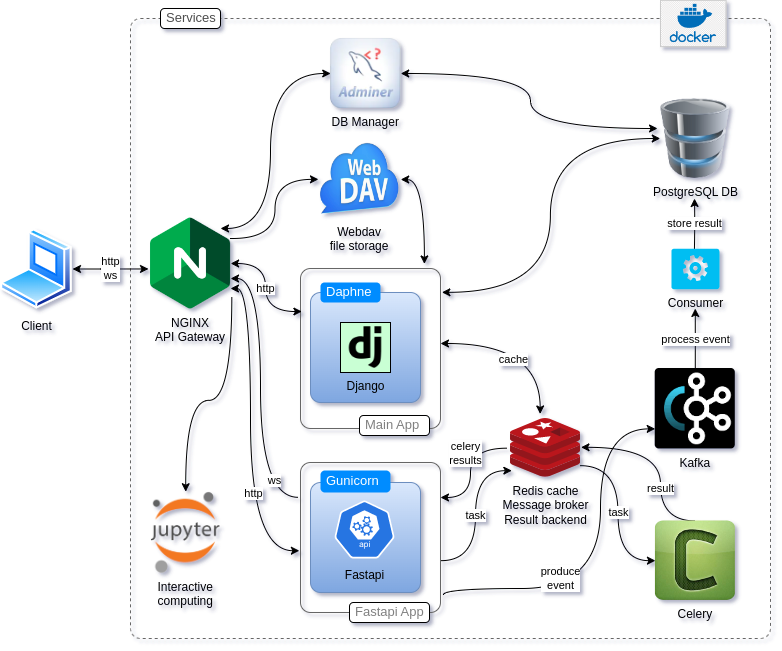
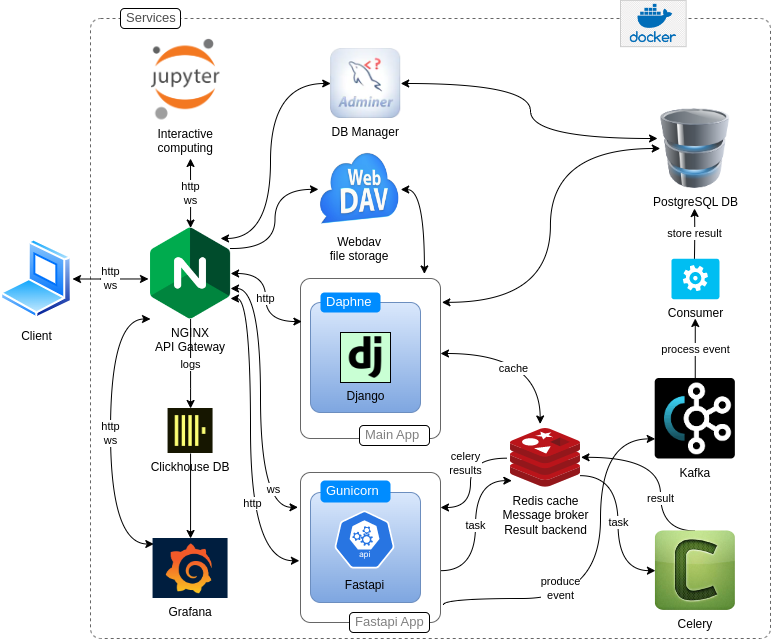
updated architecture, features and about pages

diff --git a/demo/templates/main/pages/features.html b/demo/templates/main/pages/features.html
@@ -122,7 +122,7 @@
                         <img class="img-fluid w-100" src="{% static 'main_theme/img/kafka.jpg' %}" alt="Kafka">
                         <div class="text-center p-4">
                             <p class="text-primary mb-2">Kafka</p>
-                            <h5 class="lh-base mb-0">Apache Kafka is an open-source distributed event streaming platform</h5>
+                            <h5 class="lh-base mb-0">Open-source distributed event streaming platform</h5>
                         </div>
                         <div class="portfolio-text text-center bg-white p-4">
                             <p class="text-primary mb-2">Kafka-python</p>
@@ -151,29 +151,12 @@
                         </div>
                     </div>
                 </div>
-                <div class="col-lg-4 col-md-6 portfolio-item backend wow fadeInUp" data-wow-delay="0.3s">
-                    <div class="portfolio-inner">
-                        <img class="img-fluid w-100" src="{% static 'main_theme/img/websockets.png' %}" alt="Websockets">
-                        <div class="text-center p-4">
-                            <p class="text-primary mb-2">WebSockets</p>
-                            <h5 class="lh-base mb-0">helps to web application more interactive</h5>
-                        </div>
-                        <div class="portfolio-text text-center bg-white p-4">
-                            <p class="text-primary mb-2">Websockets</p>
-                            <h5 class="lh-base mb-3">extends abilities beyond HTTP - to handle WebSockets, chat protocols, IoT protocols, and more</h5>
-                            <div class="d-flex justify-content-center">
-                                <a class="btn btn-square btn-primary rounded-circle mx-1" href="{% url 'hotels:overview' %}"><i class="fa fa-eye"></i></a>
-                                <a class="btn btn-square btn-primary rounded-circle mx-1" href="https://channels.readthedocs.io/en/stable/" target="_blank"><i class="fa fa-link"></i></a>
-                            </div>
-                        </div>
-                    </div>
-                </div>
-                <div class="col-lg-4 col-md-6 portfolio-item frontend done wow fadeInUp" data-wow-delay="0.5s">
+                <div class="col-lg-4 col-md-6 portfolio-item frontend done wow fadeInUp" data-wow-delay="0.3s">
                     <div class="portfolio-inner">
                         <img class="img-fluid w-100" src="{% static 'main_theme/img/swagger.png' %}" alt="Swagger">
                         <div class="text-center p-4">
                             <p class="text-primary mb-2">Swagger UI</p>
-                            <h5 class="lh-base mb-0">Visualize your API</h5>
+                            <h5 class="lh-base mb-0">Visualize your API with interactive UI</h5>
                         </div>
                         <div class="portfolio-text text-center bg-white p-4">
                             <p class="text-primary mb-2">Interactive API UI</p>
@@ -181,6 +164,23 @@
                             <div class="d-flex justify-content-center">
                                 <a class="btn btn-square btn-primary rounded-circle mx-1" href="{% url 'drf-swagger-ui' %}"><i class="fa fa-eye"></i></a>
                                 <a class="btn btn-square btn-primary rounded-circle mx-1" href="https://swagger.io/tools/swagger-ui/" target="_blank"><i class="fa fa-link"></i></a>
+                            </div>
+                        </div>
+                    </div>
+                </div>
+                <div class="col-lg-4 col-md-6 portfolio-item backend wow fadeInUp" data-wow-delay="0.5s">
+                    <div class="portfolio-inner">
+                        <img class="img-fluid w-100" src="{% static 'main_theme/img/websockets.png' %}" alt="Websockets">
+                        <div class="text-center p-4">
+                            <p class="text-primary mb-2">WebSockets</p>
+                            <h5 class="lh-base mb-0">Continuous communication between a client and server.</h5>
+                        </div>
+                        <div class="portfolio-text text-center bg-white p-4">
+                            <p class="text-primary mb-2">Websockets</p>
+                            <h5 class="lh-base mb-3">extends abilities beyond HTTP - to handle WebSockets, chat protocols, IoT protocols, and more</h5>
+                            <div class="d-flex justify-content-center">
+                                <a class="btn btn-square btn-primary rounded-circle mx-1" href="{% url 'hotels:overview' %}"><i class="fa fa-eye"></i></a>
+                                <a class="btn btn-square btn-primary rounded-circle mx-1" href="https://channels.readthedocs.io/en/stable/" target="_blank"><i class="fa fa-link"></i></a>
                             </div>
                         </div>
                     </div>
@@ -309,7 +309,7 @@
                         <img class="img-fluid w-100" src="{% static 'main_theme/img/jupyter_mid.png' %}" alt="jupyter">
                         <div class="text-center p-4">
                             <p class="text-primary mb-2">Jupyter</p>
-                            <h5 class="lh-base mb-0">Interactive output, creating and sharing computational documents.</h5>
+                            <h5 class="lh-base mb-0">Creating and sharing computational documents.</h5>
                         </div>
                         <div class="portfolio-text text-center bg-white p-4">
                             <p class="text-primary mb-2">JupyterLab</p>

diff --git a/demo/templates/main/pages/architecture.html b/demo/templates/main/pages/architecture.html
@@ -75,6 +75,10 @@
                         <div class="service">
                             <a class="btn btn-link" href="">Jupyter (Interactive Computing)</a>
                         </div>
+                        <div class="service">
+                            <a class="btn btn-link" href="">Clickhouse + Grafana</a>
+                            <p class="ps-4 collapse">Collect NGINX access logs in OLAP database and visualize in Grafana dashboard.</p>
+                        </div>
                     </div>
                 </div>
             </div>
@@ -126,28 +130,28 @@
                                 <td>demo_daphne</td>
                                 <td>custom</td>
                                 <td>demo_main_app:latest</td>
-                                <td>1.32GB</td>
+                                <td>1.34GB</td>
                                 <td>3355</td>
                             </tr>
                             <tr>
                                 <td>demo_fastapi</td>
                                 <td>custom</td>
                                 <td>demo_fastapi:latest</td>
-                                <td>957MB</td>
+                                <td>958MB</td>
                                 <td>8112</td>
                             </tr>
                             <tr>
                                 <td>demo_celery</td>
                                 <td>custom</td>
                                 <td>demo_fastapi:latest</td>
-                                <td>957MB</td>
+                                <td>958MB</td>
                                 <td></td>
                             </tr>
                             <tr>
                                 <td>demo_consumer</td>
                                 <td>custom</td>
                                 <td>demo_main_app:latest</td>
-                                <td>1.32GB</td>
+                                <td>1.34GB</td>
                                 <td></td>
                             </tr>
                             <tr>
@@ -196,8 +200,30 @@
                                 <td>demo_jupyter</td>
                                 <td>native</td>
                                 <td>jupyter/minimal-notebook:latest</td>
-                                <td>1.48GB</td>
+                                <td>1.47GB</td>
                                 <td>8888</td>
+                            </tr>
+
+                            <tr>
+                                <td>demo_nginx-clickhouse</td>
+                                <td>native</td>
+                                <td>mintance/nginx-clickhouse:latest</td>
+                                <td>12.5MB</td>
+                                <td></td>
+                            </tr>
+                            <tr>
+                                <td>demo_clickhouse</td>
+                                <td>native</td>
+                                <td>yandex/clickhouse-server:latest</td>
+                                <td>826MB</td>
+                                <td>9000, 8123</td>
+                            </tr>
+                            <tr>
+                                <td>demo_grafana</td>
+                                <td>native</td>
+                                <td>grafana/grafana:latest</td>
+                                <td>309MB</td>
+                                <td>3000</td>
                             </tr>
                         </tbody>
                     </table>

diff --git a/demo/templates/main/pages/about.html b/demo/templates/main/pages/about.html
@@ -77,7 +77,7 @@
                         <p>- Event-driven approach is represented by event Producer in FastAPI view, Kafka as message broker and Consumer service.</p>
                         <p>- And finally there are some other useful pages like Django
                             <a href="{% url 'admin:index' %}">Admin site</a>, <a href="{{ settings.ADMINER_URL }}">Adminer</a> DBM,
-                            <a href="{% url 'silk:summary' %}">Silk</a> profiler, <a href="{{ settings.JUPYTER_URL }}">JupiterLab</a>,
+                            <a href="{% url 'silk:summary' %}">Silk</a> profiler, <a href="{{ settings.GRAFANA_URL }}">Grafana</a> dashboard, <a href="{{ settings.JUPYTER_URL }}">JupiterLab</a>
                             and Swagger-based API docs for both <a href="{% url 'drf-swagger-ui' %}">DRF</a> and <a href="/fastapi/docs">FastAPI</a> endpoints.</p>
                     </div>
                 </div>
@@ -104,6 +104,14 @@
                         </div>
                         <div class="col-lg-6 col-md-6 ps-1 pt-1">
                             <img class="img-fluid" src="{% static 'main_theme/img/UI-jupyter.png' %}" alt="UI-jupyter">
+                        </div>
+                    </div>
+                    <div class="row">
+                        <div class="col-lg-6 col-md-6 pe-1 pt-1">
+                            <img class="img-fluid" src="{% static 'main_theme/img/UI-adminer.png' %}" alt="UI-adminer">
+                        </div>
+                        <div class="col-lg-6 col-md-6 ps-1 pt-1">
+                            <img class="img-fluid" src="{% static 'main_theme/img/UI-grafana.png' %}" alt="UI-grafana">
                         </div>
                     </div>
                 </div>
